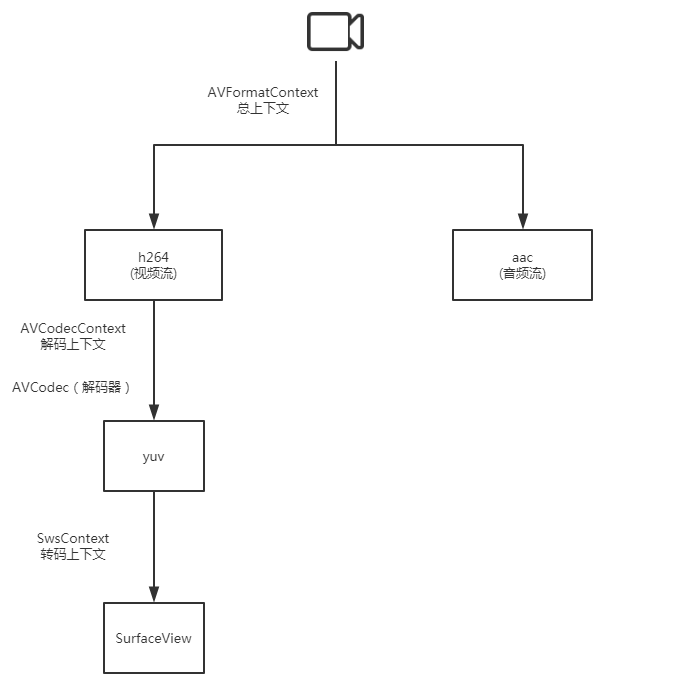
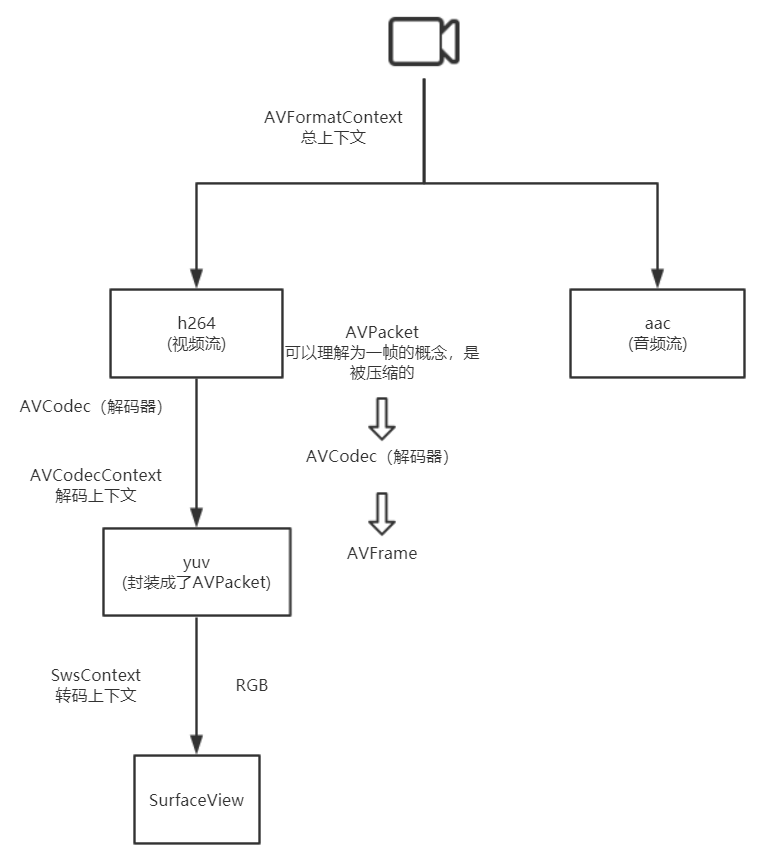
GW64 /e/Study (master)

diff --git a/NDK开发/音视频/音视频解码及同步处理.md b/NDK开发/音视频/音视频解码及同步处理.md
@@ -179,3 +179,101 @@ avcodec_parameters_to_context(avCodecContext, codecpar);
 // 打开解码器
 avcodec_open2(avCodecContext, avCodec, NULL);
 ```
+
+**解码**
+
+![](images/av_07.png)
+
+```c++
+// 在解码过程中是看不到相关yuv的数据的，因为被封装成了AVPacket，所以要读取yuv数据必须从AVPacket中找
+// 实例化AVPacket
+AVPacket *avPacket = av_packet_alloc();
+// 实例化AVFrame
+AVFrame *avFrame = av_frame_alloc();
+
+// av_read_frame 从视频流中读取数据包到AVPacket中
+// 返回值0：读取成功；< 0：读取错误或者到文件末尾
+while (av_read_frame(avFormatContext, avPacket) >= 0) {
+    // 取出packet
+    avcodec_send_packet(avCodecContext, avPacket);
+    // 转换为frame
+    ret = avcodec_receive_frame(avCodecContext, avFrame);
+}
+```
+
+```c++
+/**
+ *  @return 0 代表成功, 否则返回错误码，有以下几个:
+ *      AVERROR(EAGAIN ): 读取的信息会维持一个队列，如果队列超过了FFmpeg内部维持的最大大小，则必须先通过 avcodec_receive_frame 取出读取的信息
+ *      AVERROR_EOF: 解码被全部刷新完了，并且没有新的 packet 传入进来
+ *      AVERROR(EINVAL): 解码器不能打开（它是一个编码器，或者它需要刷新）
+ *      AVERROR(ENOMEM): 不能打开内部的队列
+ *      other errors: legitimate decoding errors
+ */
+int avcodec_send_packet(AVCodecContext *avctx, const AVPacket *avpkt);
+```
+
+**绘制**
+
+```c++
+// 转换上下文
+// avCodecContext->pix_fmt当前视频的编码格式
+// flags：转换方式：
+//  重视速度：fast_bilinear, point
+//  重视质量：gauss, bilinear
+//  重视锐度：cubic, spline, lanczos
+//  得到一个转码上下文SwsContext
+SwsContext *swsContext = sws_getContext(avCodecContext->width, avCodecContext->height,
+                                        avCodecContext->pix_fmt,
+                                        avCodecContext->width, avCodecContext->height,
+                                        AV_PIX_FMT_RGBA, SWS_BILINEAR,
+                                        0, 0, 0);
+
+// 接收的容器
+uint8_t *dst_data[0];
+// 每一行的首地址
+int dst_linesize[0];
+// 声明一个图片
+av_image_alloc(dst_data, dst_linesize, avCodecContext->width, avCodecContext->height,
+               AV_PIX_FMT_RGBA, 1);
+
+ANativeWindow *nativeWindow = ANativeWindow_fromSurface(env, surface);
+// 设置缓冲区
+ANativeWindow_setBuffersGeometry(nativeWindow, avCodecContext->width, 
+                                 avCodecContext->height,
+                                 WINDOW_FORMAT_RGBA_8888);
+ANativeWindow_Buffer outBuffer;
+
+while (av_read_frame(avFormatContext, avPacket) >= 0) {
+    ...
+    // 将yuv的一帧frame转换为rgb
+    sws_scale(swsContext, avFrame->data, avFrame->linesize, 0, avFrame->height, dst_data,
+              dst_linesize);
+    
+    // 渲染
+    // 在底层渲染只能通过ANativeWindow来进行渲染
+    
+    // 锁住NativeWindow
+    ANativeWindow_lock(nativeWindow, &outBuffer, NULL);
+    
+    // ------------缓冲区渲染------------
+    uint8_t *firstWindow = static_cast<uint8_t *>(outBuffer.bits);
+    // 输入源（rgb）
+    uint8_t *src_data = dst_data[0];
+    // 拿到一行有多少个字节 RGBA
+    int dstStride = outBuffer.stride * 4;
+    int src_linesize = dst_linesize[0];
+    for (int i = 0; i < outBuffer.height; ++i) {
+        // 内存拷贝，来进行渲染，一行一行拷贝
+        memcpy(firstWindow + i * dstStride, src_data + i * src_linesize, dstStride);
+    }
+    
+    // 解锁NativeWindow
+    ANativeWindow_unlockAndPost(nativeWindow);
+    usleep(1000 * 16);
+}
+
+```
+渲染机制
+
+![](images/av_08.png)
